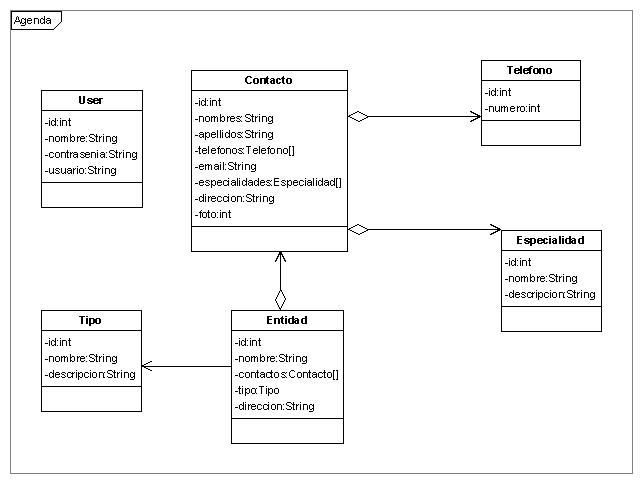
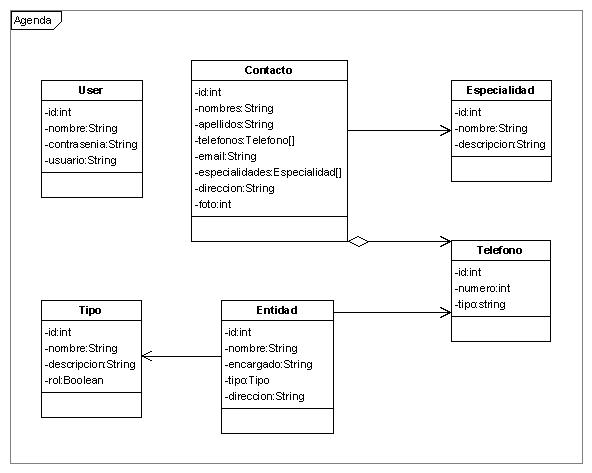
ejorando el diagram de clases fianl a pedido del cliente

diff --git a/application/models/Contacto.php b/application/models/Contacto.php
@@ -61,16 +61,14 @@ class App_Model_Contacto
 	private $_telefonos;
 	
 	/**
-	 *@var array 
-	 *
-	 * @ManyToMany(targetEntity="App_Model_Especialidad", inversedBy="_contactos")
-	 * @JoinTable(name="contacto_especialidad")
+	 *@OneToOne(targetEntity="App_Model_Especialidad")
+	 * @JoinColumn(name="especialidad_id", referencedColumnName="id") 
 	 */
-	 private $_especialidades;
+	 private $_especialidad;
 		   
 	public function __construct() {
 	   	$this->_telefonos = array();
-	   	$this->_especialidades = array();
+	   	
 	}
 		   
 	public function agregarTelefono(App_Model_Telefono $telefono) {
@@ -101,9 +99,6 @@ class App_Model_Contacto
 	public function getFoto() {
 		return $this->_foto;
 	}
-	public function agregarEspecialidad(App_Model_Especialidad $especialidad) {
-		$especialidad->agregarContacto($this);
-		$this->_especialidades[] = $especialidad;
-	}
+
 }
     

diff --git a/application/controllers/ContactoController.php b/application/controllers/ContactoController.php
@@ -22,16 +22,20 @@ class ContactoController extends Zend_Controller_Action
     public function agregarAction()
     {
 		//$id = Zend_Auth::getInstance()->getIdentity()->getId();
-		$jose = new App_Form_ContactoForm();
+		$form = new App_Form_ContactoForm();
 		if ($this->_request->getPost()) {
 			$formData = $this->_request->getPost();
-
 			if ($form->isValid($formData)) {
+				
+				$telefono = new App_Model_Telefono();
+				$especialidad = new App_Model_Especialidad();
+				$contacto = new App_Model_Contacto();
+				
 				$this->_helper->redirector('index');
 				return;
 			}
 		}
-		$this->view->form = $jose;
+		$this->view->form = $form;
     }
 
 

diff --git a/application/models/Especialidad.php b/application/models/Especialidad.php
@@ -28,20 +28,6 @@ class App_Model_Especialidad
 	 * @Column(name="descripcion", type="string", length=100, nullable=true)
 	 */
 	private $_descripcion;
-	/**
-	 * @var array
-	 * 
-	 * @ManyToMany(targetEntity="App_Model_Contacto", mappedBy="_especialidades")
-	 */
-	private $_contactos;
-	
-	public function __construct() {
-		$this->_contactos = array();
-	}
-	
-	public function agregarContacto(App_Model_Contacto $contacto) {
-		$this->_contactos[] = $contacto;
-	}
-	
+
 }
 

diff --git a/application/forms/ContactoForm.php b/application/forms/ContactoForm.php
@@ -6,7 +6,7 @@ class App_Form_ContactoForm extends Zend_Form
 	{
 		//parent::__construct();
 		
-		$this->setMethod('post');
+		$this->setMethod('POST');
 		
 		$nombres = new Zend_Form_Element_Text('_nombres');
 		$nombres = $this->createElement('text', '_nombres');
